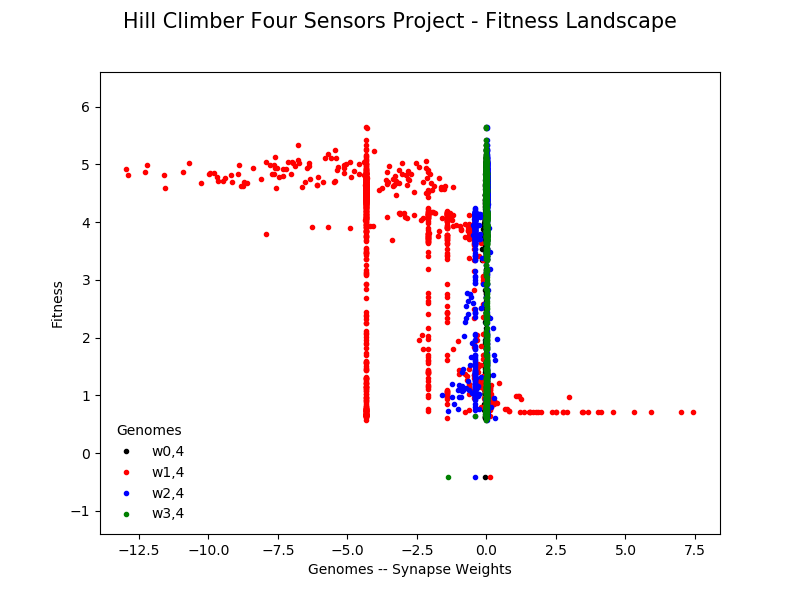
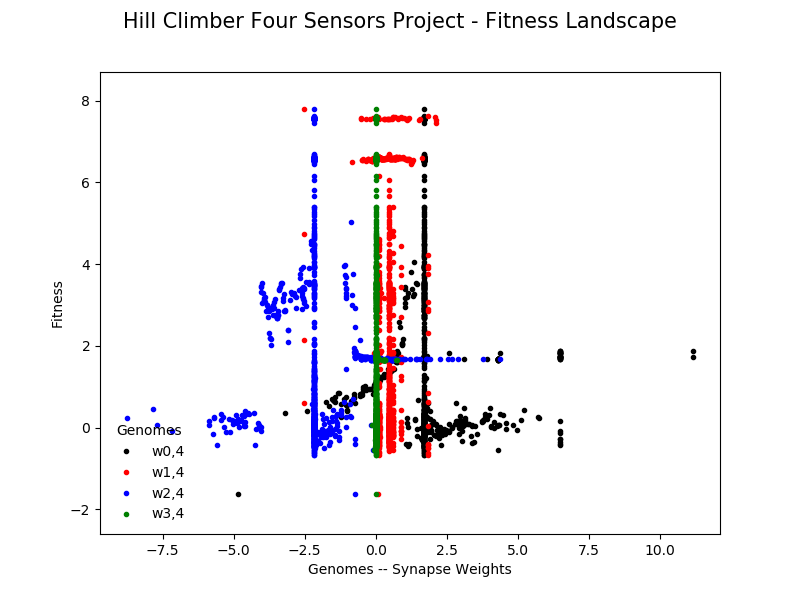
Random seed set as None to eventually generate a hopping robot.

diff --git a/hillclimbers/hillclimber4.py b/hillclimbers/hillclimber4.py
@@ -12,8 +12,8 @@ import matplotlib.pyplot as plt
 
 parent_blind_play = True
 print_iteration_history = False
-save_best_individual = False
-random_seed = 21212121
+save_best_individual = True
+random_seed = None
 
 tlim = 1000  # upper limit of simulation time steps
 nlim = 1001  # upper limit of individual iterations
